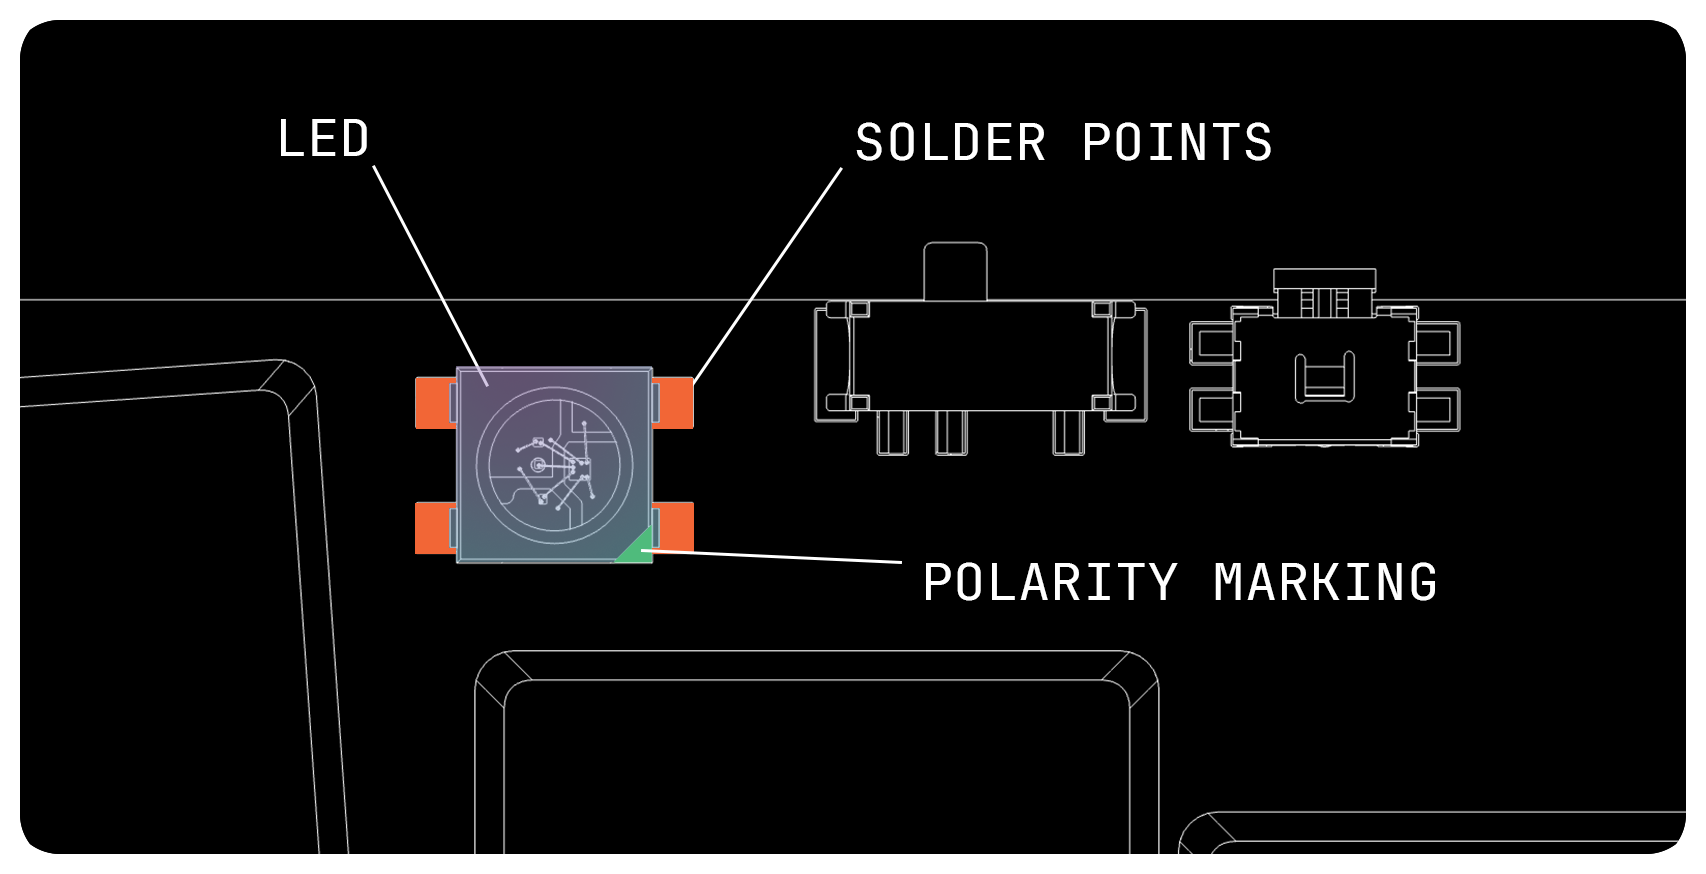
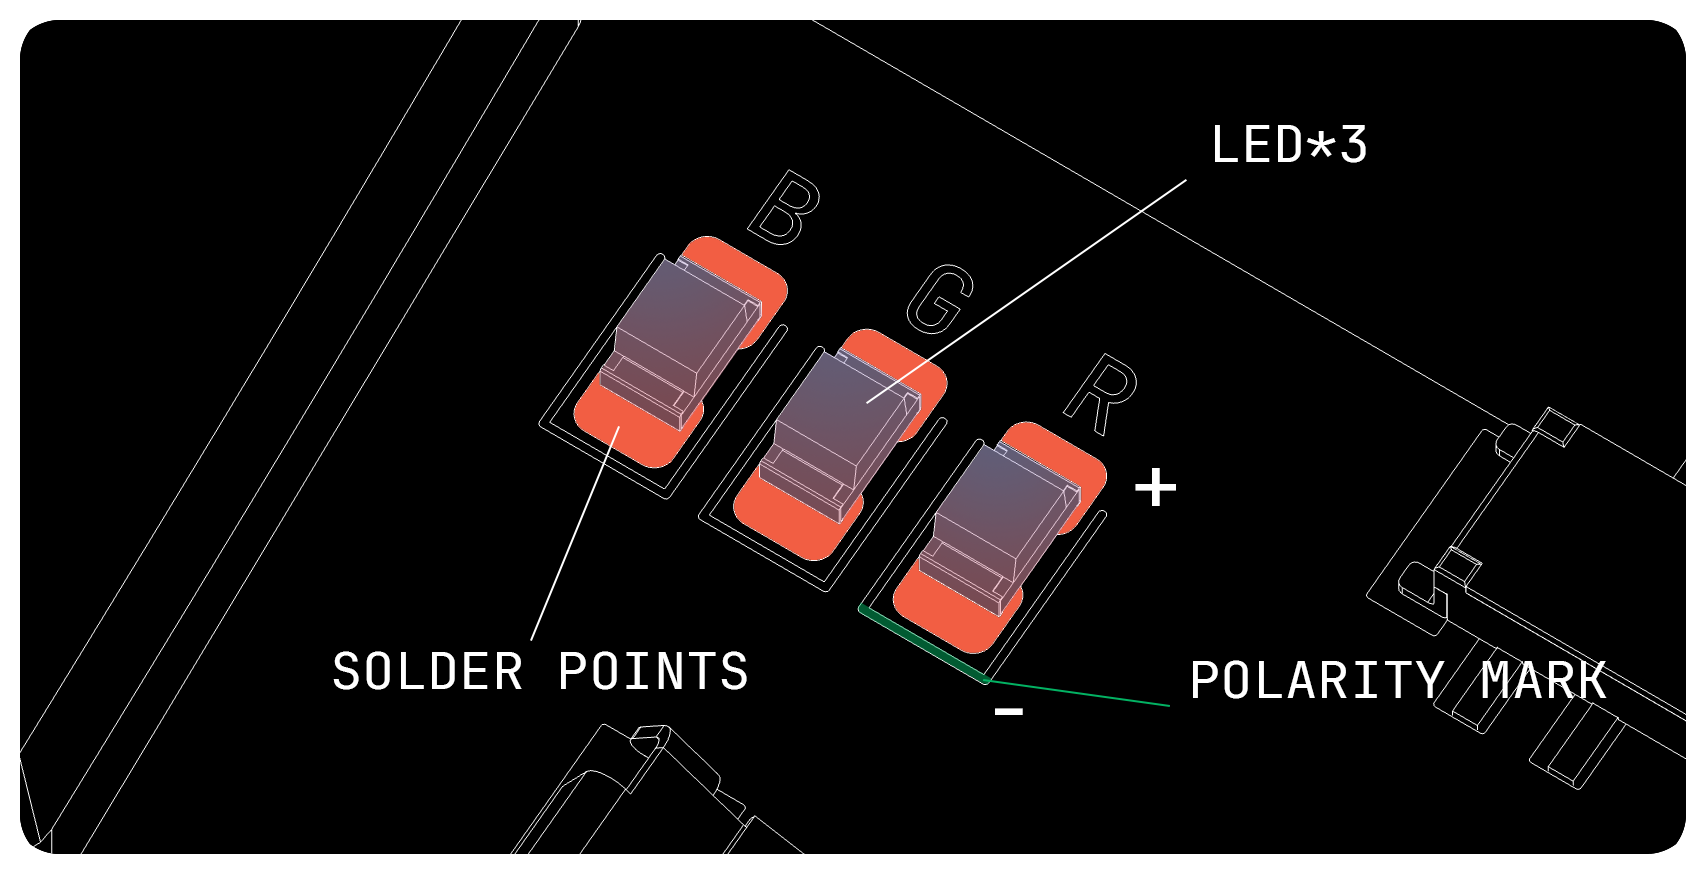
update documents

diff --git a/docs/BOM.md b/docs/BOM.md
@@ -1,17 +1,20 @@
 # Bill of Materials
 
-| Component        | Specification                                              | Quantity | Notes                                                                 |
-|------------------|------------------------------------------------------------|----------|----------------------------------------------------------------------|
-| MCU Controller   | SeeedStudio XIAO nRF52840                                  | 2        |                                                                      |
-| ULP Switches     | Cherry MX ULP or Kailh PG1316s                             | 34       |                                                                      |
-| ULP Keycap       |                                                            | 34       |                                                                      |
-| Power Switches   | MK-12C02                                                   | 2        |                                                                      |
-| Reset Switches   | EVQ-PUL02K                                                 | 2        | Compatible with EVQ-PU[A\|C\|J\|L]02K                                |
-| Diodes           | SOD-123                                                    | 34       | 1N4148W                                                              |
-| Batteries        | 3.7 V LiPo                                                 | 2        | Maximum size: 25.2 mm × 17.7 mm × 4.2 mm                             |
-| Screws           | M2 × 3 mm                                                  | 10       | If countersink is not used, choose ultra-low head screws (~0.8 mm)   |
-| Magnets          | Rounded, OD 8 mm, 3 mm thickness, minimum N52 grade        | 6        | Optional                                                             |
-
+| Component        | Specification                                              | Quantity | Notes  |
+|------------------|------------------------------------------------------------|----------|--------|
+| MCU Controller   | SeeedStudio XIAO nRF52840                                  | 2        |        |
+| ULP Switches     | Cherry MX ULP or Kailh PG1316s                             | 34       |        |
+| ULP Keycap       |                                                            | 34       |        |
+| Power Switches   | MK-12C02                                                   | 2        |        |
+| Reset Switches   | EVQ-PUL02K                                                 | 2        | Compatible with EVQ-PU[A\|C\|J\|L]02K |
+| Diodes           | SOD-123                                                    | 34       | 1N4148W |
+| Batteries        | 3.7 V LiPo                                                 | 2        | Maximum size: 25.2 mm × 17.7 mm × 4.2 mm |
+| Screws           | M2 × 3 mm                                                  | 10       | If countersink is not used, choose ultra-low head screws (ex. 0.8 mm) |
+| LEDs             | 0805 (2012 Metric)                                         | 6        | Optional |
+| LED Resistors    | 1206 (3216 Metric) 220Ω ~ 470Ω                             | 6        | Optional |
+| Magnets          | Rounded, OD 8 mm, 3 mm thickness, minimum N52 grade        | 6        | Optional |
+| ESD Protection Capacitor | 1206 (3216 Metric) 1nF 50V [C0G\|NP0\|X7R]           | 2        | Optional |
+| ESD Protection Resistor | 1206 (3216 Metric) 1MΩ                              | 2        | Optional |
 
 ## Next Steps
 

diff --git a/docs/BUILD_GUIDES.md b/docs/BUILD_GUIDES.md
@@ -8,10 +8,11 @@ This document covers the **hand-solder version** of the build process.
 - Flux
 - Ventilation system
 - Knife or precision cutter
-- Silicone adhesive or cyanoacrylate
+- Silicone adhesive or cyanoacrylate (For magnets)
 - Multimeter
 
 If working with a mouse-bited PCB, you will also need:
+- Plier
 - Mask
 - Sandpaper
 
@@ -45,6 +46,34 @@ The process is nearly identical to the power switch:
 3. Solder the remaining three pads.
 
 As with the power switch, correct alignment is important (boss features assist here).
+
+
+## (Optional) LED
+
+![LED](./images/led.png)
+
+1. LEDs are polarized components. Even if the LEDs are of the same size, different manufacturers may indicate polarity in different ways. Refer to the corresponding datasheet to confirm the correct polarity before soldering. Align the LED according to the silkscreen markings, where the closed side represents the negative (–) terminal and the open side represents the positive (+) terminal.
+2. Apply solder to one pad, then reflow it while positioning the LED to secure it in place. After that, solder the opposite pad.
+3. The color of the LED may be selected and installed according to user preference. For reference, the MCU pins corresponding to each silkscreen text (R, G, B) are connected identically on both the left and right sides.
+
+> [!CAUTION]
+> LEDs are highly sensitive to heat. Ensure that you verify the proper soldering temperature and limit the soldering duration to prevent damage.
+
+### LED Resistors
+
+![LED Resistors](./images/led_resistors.png)
+
+1. Install three resistors for the LEDs. These components are non-polarized and therefore have no orientation requirements.
+2. Apply solder to one pad, place the resistor in position, and reflow the solder to secure it. Then proceed to solder the remaining pad.
+
+## (Optional) ESD Protection
+
+![ESD Protection](./images/esd_rc.png)
+
+1. Install the capacitor and resistor for ESD protection. There are two available mounting positions, and either component (capacitor or resistor) may be placed in either location. Both are non-polarized.
+
+2. As with previous components, apply solder to one pad, position the part, and reflow the solder to secure it. Then proceed to solder the remaining pad.
+
 
 ## Diodes
 
@@ -99,6 +128,10 @@ Flip the board to solder the switch contact points:
 4. On the PCB backside, solder the 4 additional connection points.
 5. As with the switches, ensure solder bonds to both the XIAO and PCB.
 
+![Back MCU](./images/xiao_back2.png)
+
+6. (Optional) If you intend to use the LED, solder the additional pin located below.
+
 ## Battery
 
 ![Battery](./images/battery.png)
@@ -114,7 +147,7 @@ Flip the board to solder the switch contact points:
 3. Double-check polarity (red = positive, black = negative).
 4. Insulate the positive terminal with RTV silicone, Kapton tape, or another reliable method.
 
-## Magnet (Optional)
+## (Optional) Magnet
 
 ![Magnets](./images/magnets.png)
 
@@ -122,7 +155,6 @@ Install magnets so that the polarity between the left and right cases is **align
 
 Secure the magnets in place using **silicone adhesive** or **cyanoacrylate (instant glue)**.
 
-If preferred, you can also print additional mounting parts to hold the magnets instead of adhesive.
 
 ## Case Assembly
 

diff --git a/docs/GETTING_STARTED.md b/docs/GETTING_STARTED.md
@@ -7,6 +7,8 @@ It may be long and tedious, but every section is written with only the most esse
 
 This keyboard supports **Cherry MX ULP** or **Kailh PG1316S** switches.
 
+![Switches](./images/two_switch.png)
+
 ### Cherry MX ULP
 Developed by Cherry, available in both clicky and tactile versions.
 - Actuation force: 65 gf (relatively heavy)
@@ -22,7 +24,7 @@ Developed by Kailh, with specifications and mechanism very similar to Cherry MX 
 - Easier to source than Cherry MX ULP
 - Often sold together with compatible keycaps
 
-#### Where to Buy *(unverified sources. use caution)*
+#### Where to Buy *(unverified)*
 - Modulo Industries
 - Holykeebs
 
@@ -113,12 +115,23 @@ For prototyping, I placed around six CNC orders from JLCCNC. Overall, the qualit
 
 If you encounter similar issues, it would be a good idea to discuss them directly with JLC and work out possible solutions.
 
+## LED Indicator
+
+![LED Indicator](./images/led_indicator.png)
+
+The design utilizes three individual LEDs as an indirect glow indicator. The color may be chosen according to user preference; however, the default configuration is Red, Green, and Blue. Refer to the zmk-rgbled-widget documentation to adjust the settings according to your preference.
+
+When operating LEDs at 3.3 V, it is recommended to install appropriate resistors. Using resistors with lower resistance values will increase brightness, but also result in higher battery consumption and, to a lesser extent, greater load on the MCU. Note that even when identical resistor values are used, brightness may vary by LED color. Consider these factors when selecting resistor values. If uncertain, a 220Ω resistor is generally a safe and effective choice.
+
 ## Battery
 
 You can use a 3.7V Li-Po battery. The size must fit within **25.2 mm × 17.7 mm × 4.2 mm**.
 However, the commonly available **401725** model may not fit properly. This is because typical specifications often exclude the size of the protection circuit, and lithium polymer batteries tend to have significant packaging tolerances.
 
 Be sure to check the actual dimensions before purchasing. Do not force the battery into place.
+
+
+---
 
 
 ## Next Steps

diff --git a/README.md b/README.md
@@ -33,12 +33,17 @@ A portable ultra-low-profile (ULP) wireless 3×5+2 split keyboard.
 - Keycaps
   - [Delta ULP Keycap](https://github.com/unspecworks/delta-ulp-keycap)
 
+## Photos
+
+
+- [Gallery](./gallery/README.md)
 
 ## Acknowledgments and Inspirations
 
 - [GEIGEIGEIST/TOTEM](https://github.com/GEIGEIGEIST/TOTEM)
 - [mikeholscher/zmk-config-mikecinq](https://github.com/mikeholscher/zmk-config-mikecinq)
 - [pashutk/Cherry_MX_ULP](https://github.com/pashutk/Cherry_MX_ULP)
+- [zmk-rgbled-widget](https://github.com/caksoylar/zmk-rgbled-widget)
 - [infused-kim/kb_ergogen_fp](https://github.com/infused-kim/kb_ergogen_fp)
 - [ceoloide/ergogen-footprints](https://github.com/ceoloide/ergogen-footprints)
 - [kiswitch/kiswitch](https://github.com/kiswitch/kiswitch)

diff --git a/gallery/README.md b/gallery/README.md
@@ -1,0 +1,1 @@
+...
